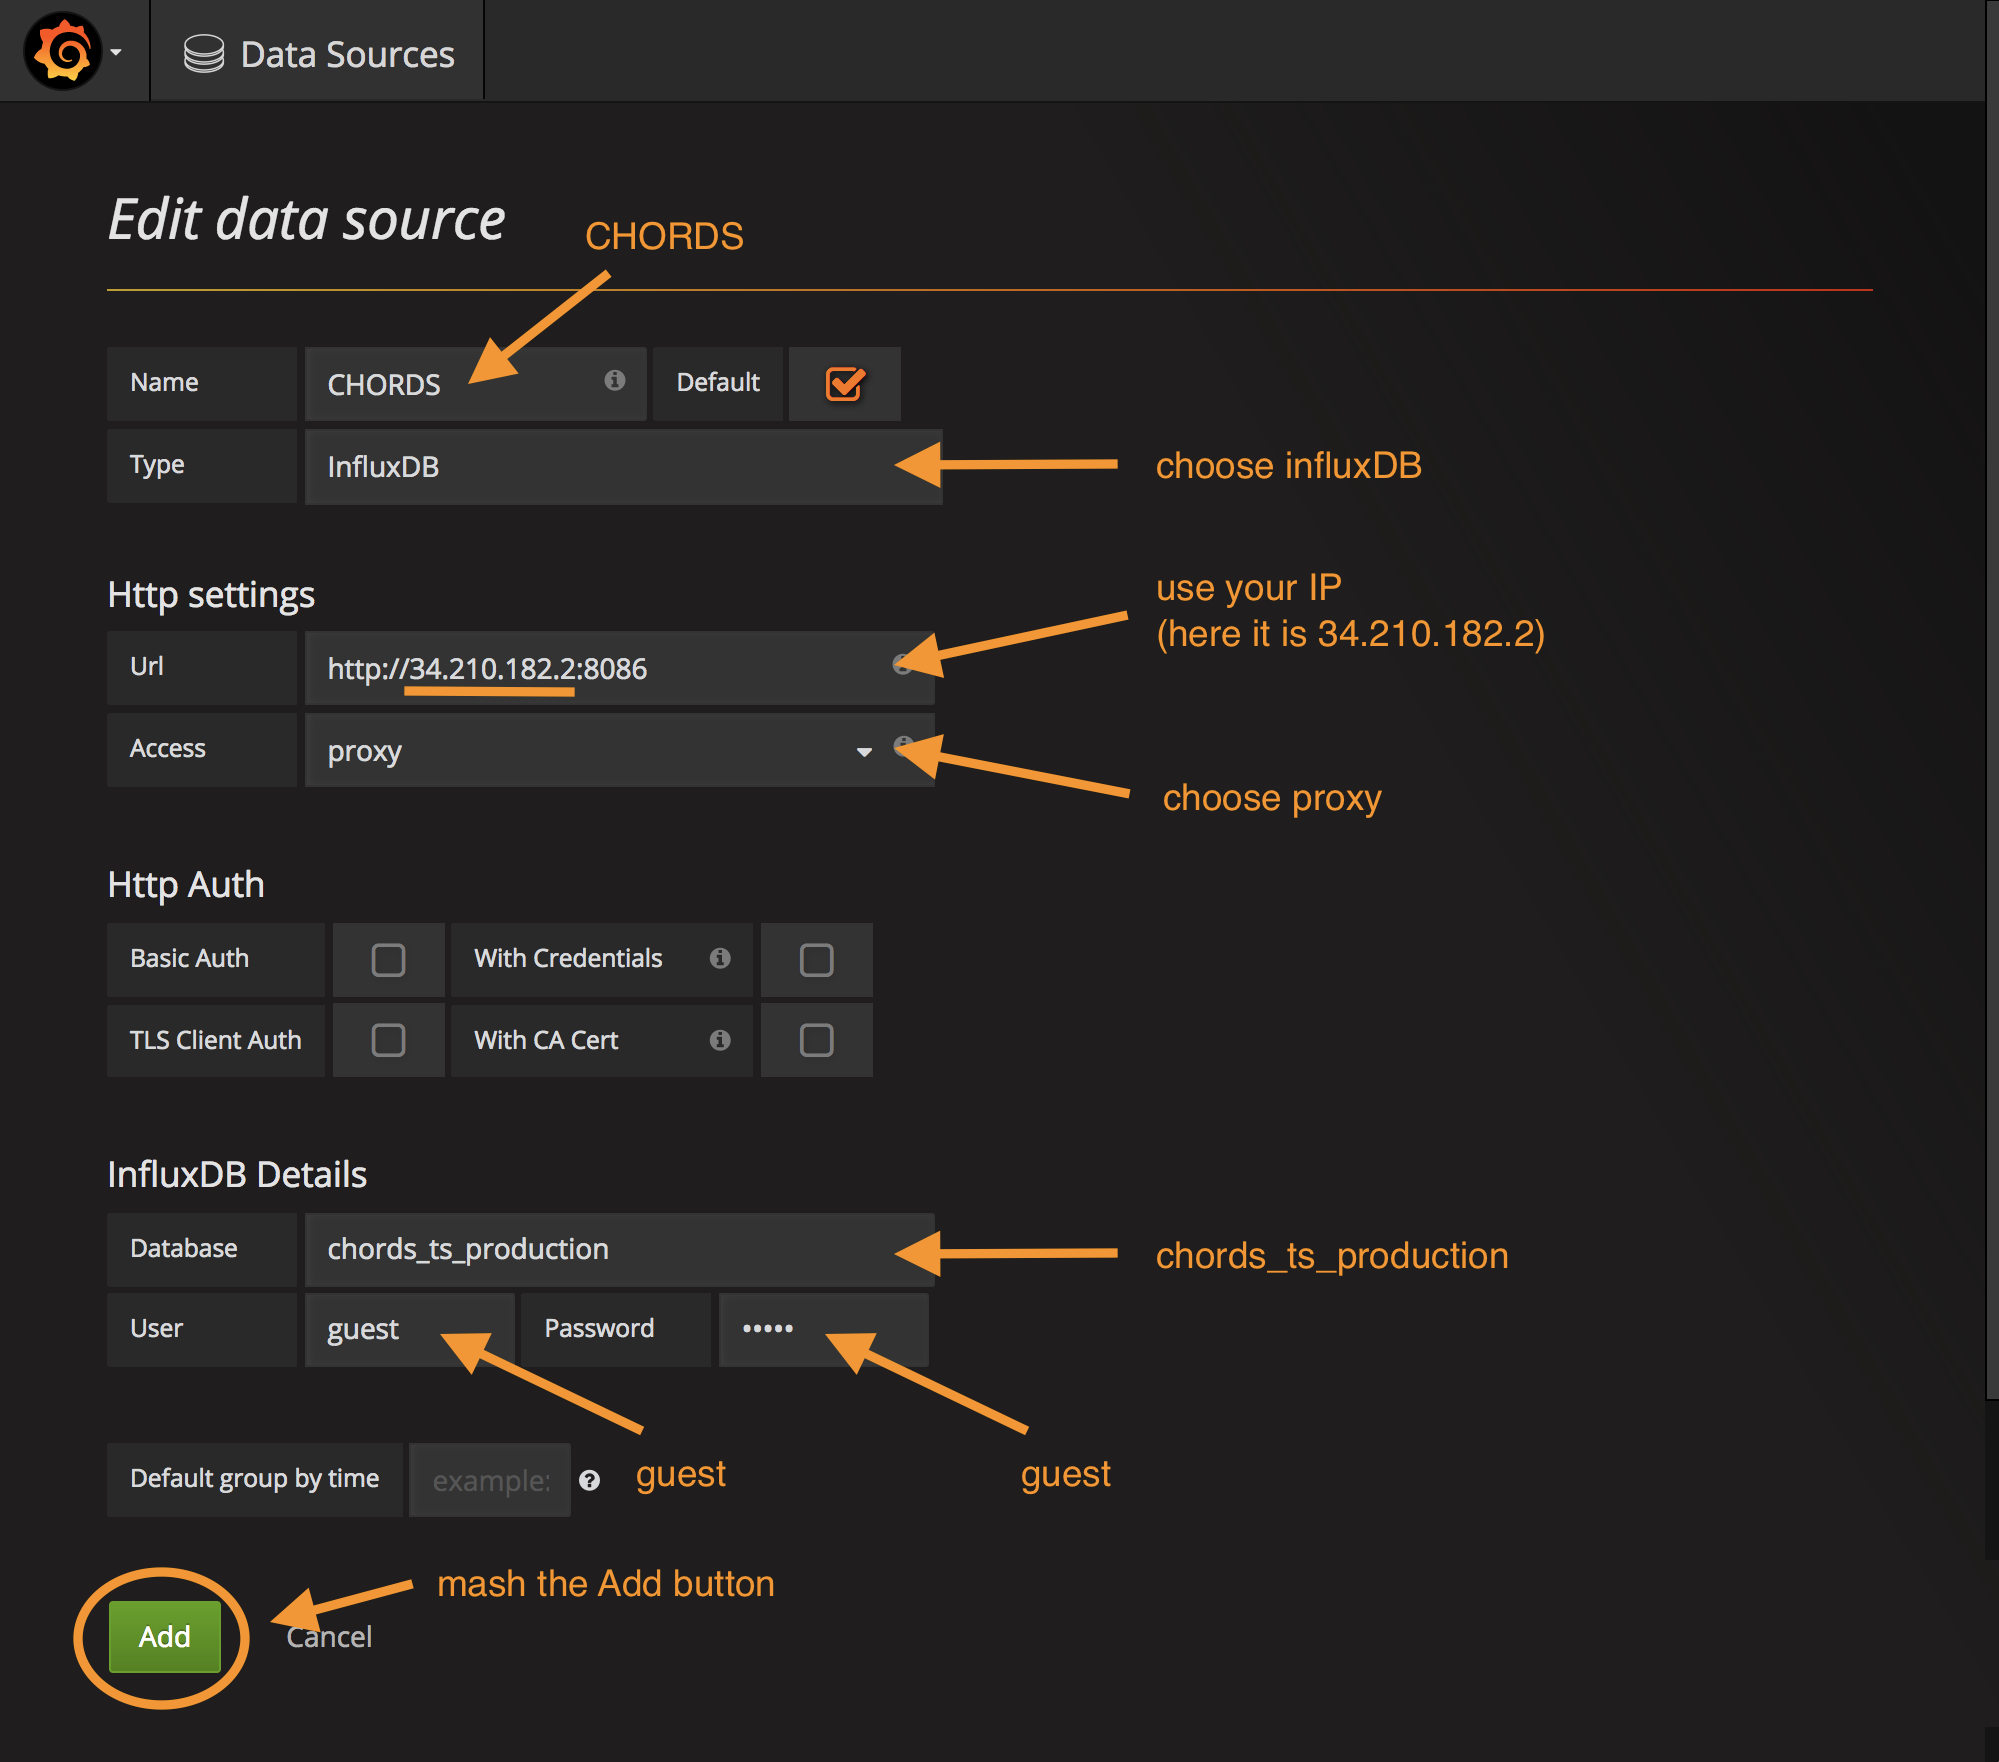
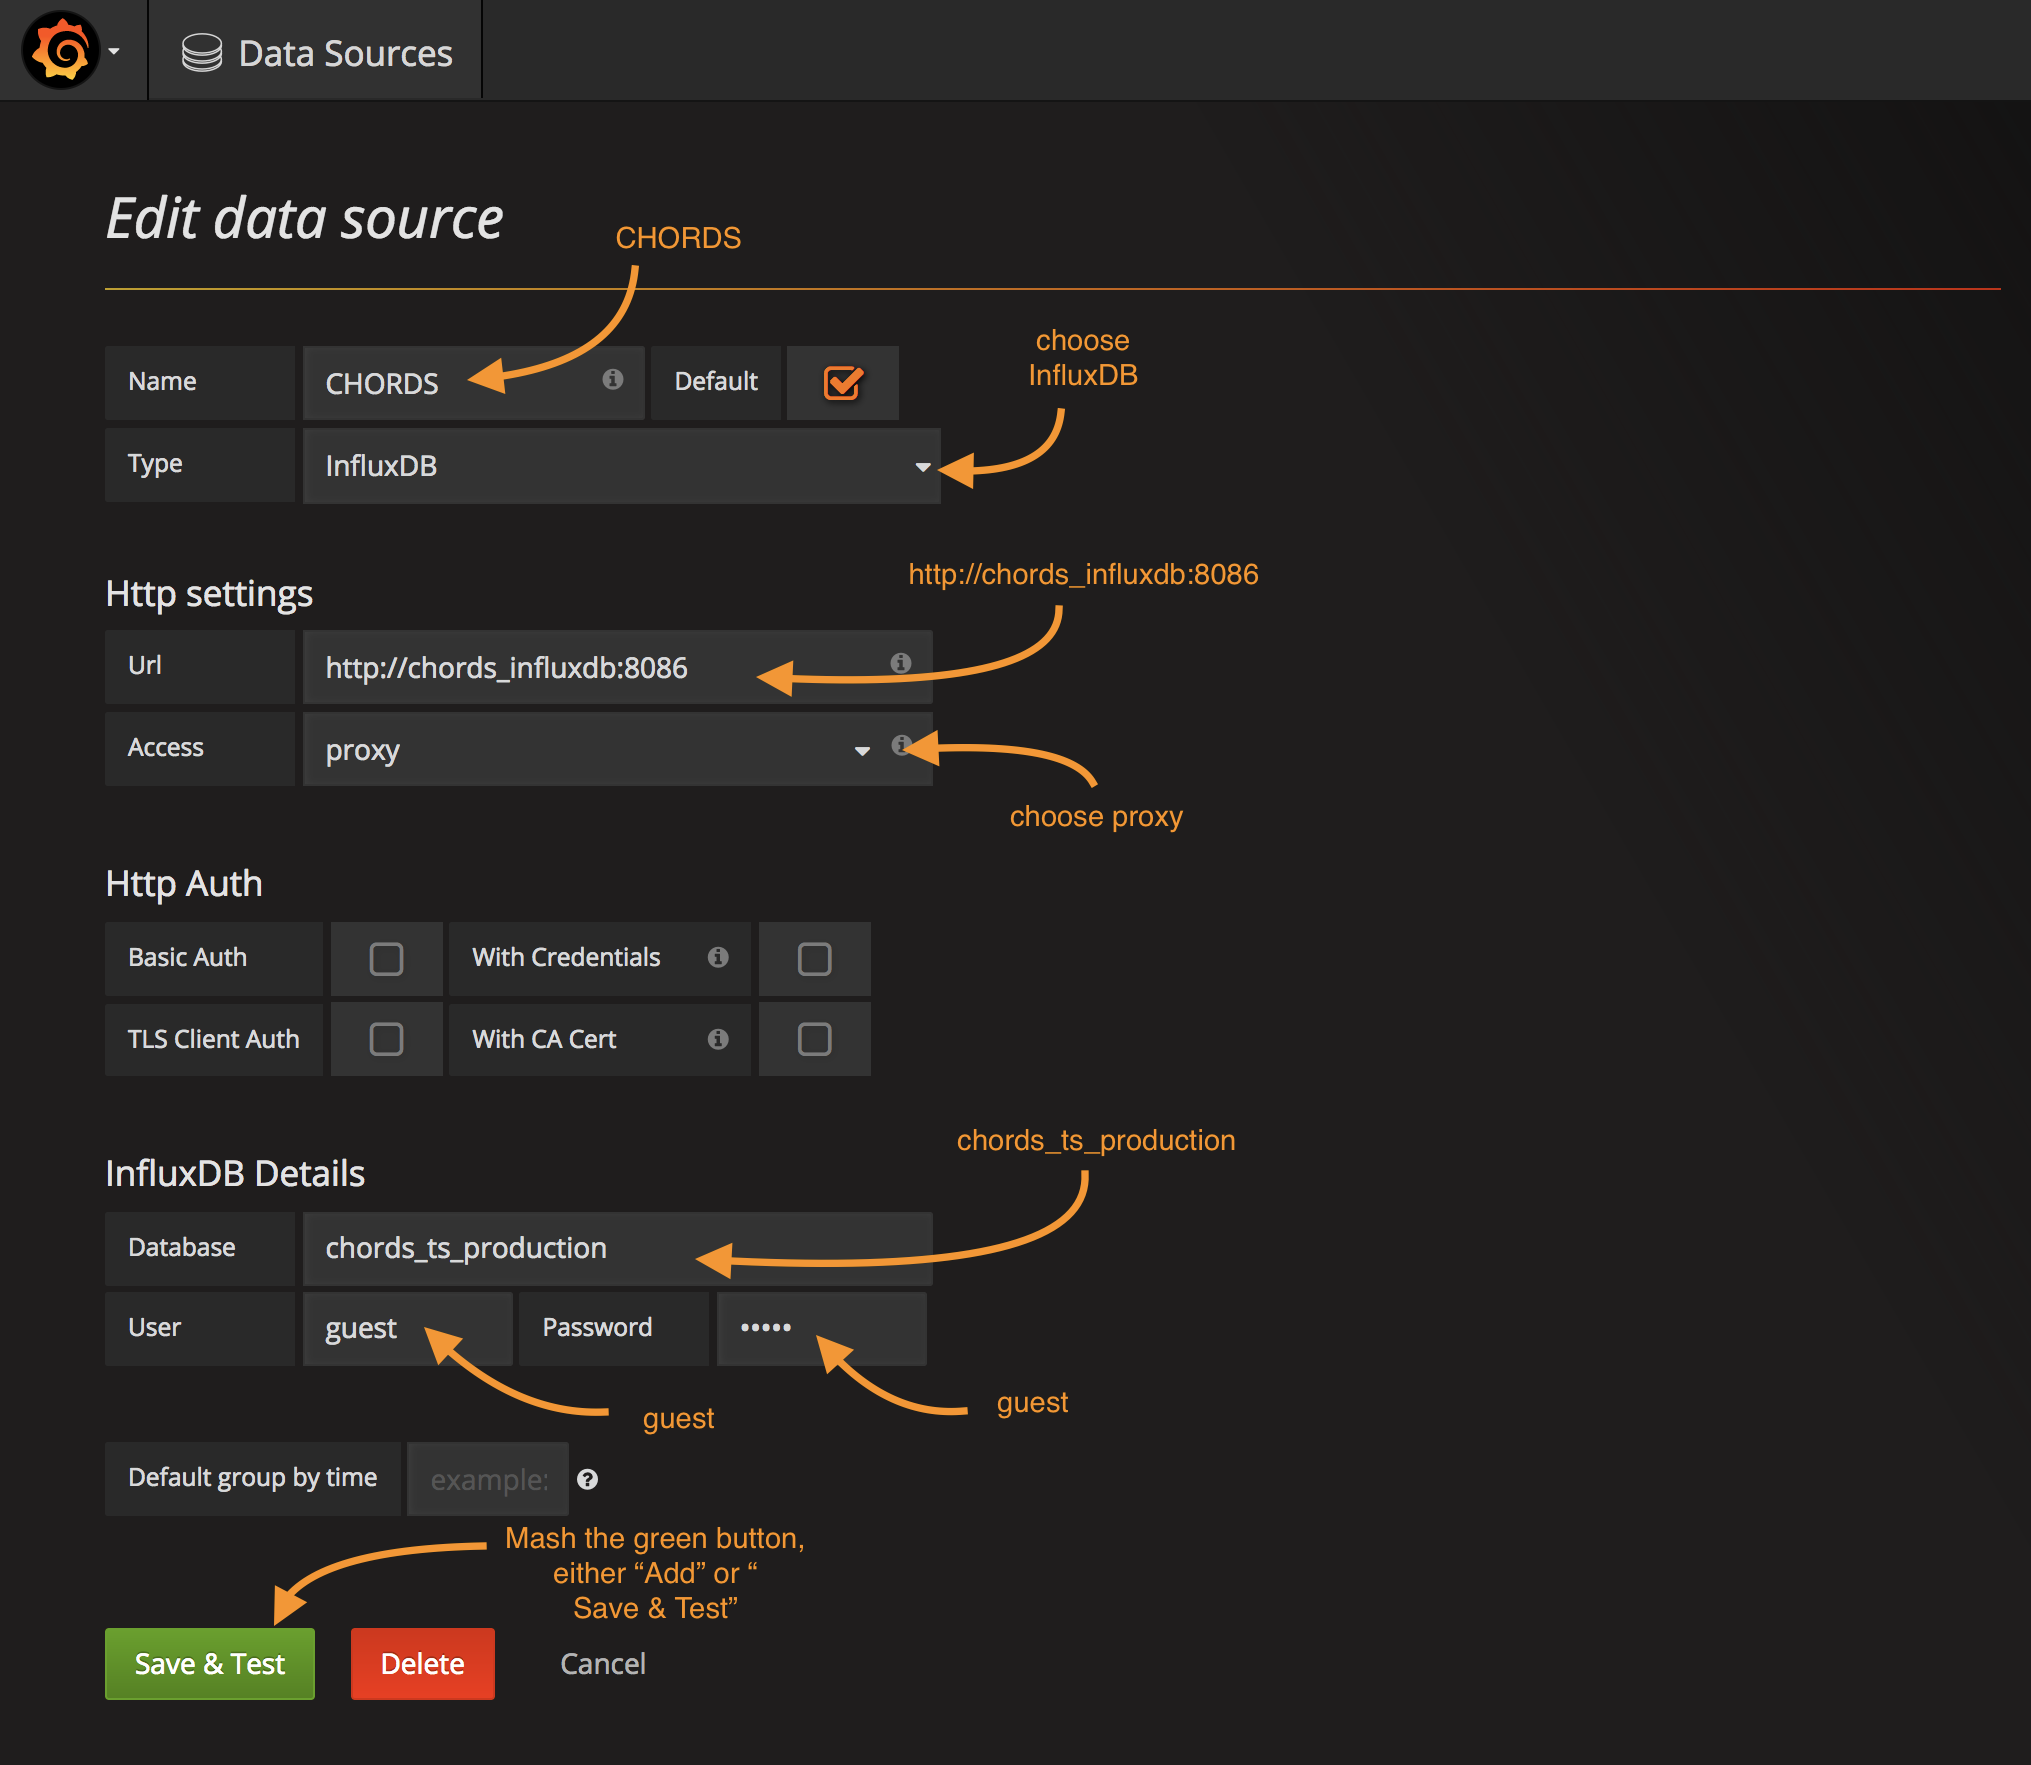
Simplify the grafana configuration.

diff --git a/concepts.md b/concepts.md
@@ -215,20 +215,12 @@ title: Concepts
         <img class="img-responsive" src="images/grafsetup_030.png" alt="Dashboard">
         </li>
         <li>Configure the data source:
-        <ul>
-          <li>Hint: On Windows, you can find the IP address by running the <b>ipconfig</b> command in a command window.</li>
-        </ul>
         <img class="img-responsive" src="images/grafsetup_040.png" alt="Dashboard">
         </li>
         <li>When configured correctly, success will be indicated:
         <img class="img-responsive" src="images/grafsetup_041.png" alt="Dashboard">
         </li>
         <li>If something is not configured correctly, you may see a message: <b>"Unknown error"</b>: 
-        <ul>
-          <li>Try changing <b>Access</b> from <b>proxy</b> to <b>direct</b>.</li>
-          <li>Verify that your Url address is correct. Perhaps you need to change <b>localhost</b> to
-          a regular IP address.</li>
-        </ul>
         <img class="img-responsive" src="images/grafsetup_042.png" alt="Dashboard">
         <ul>
           <li>Make changes, and mash <b>Save & Test</b> again.</li>
